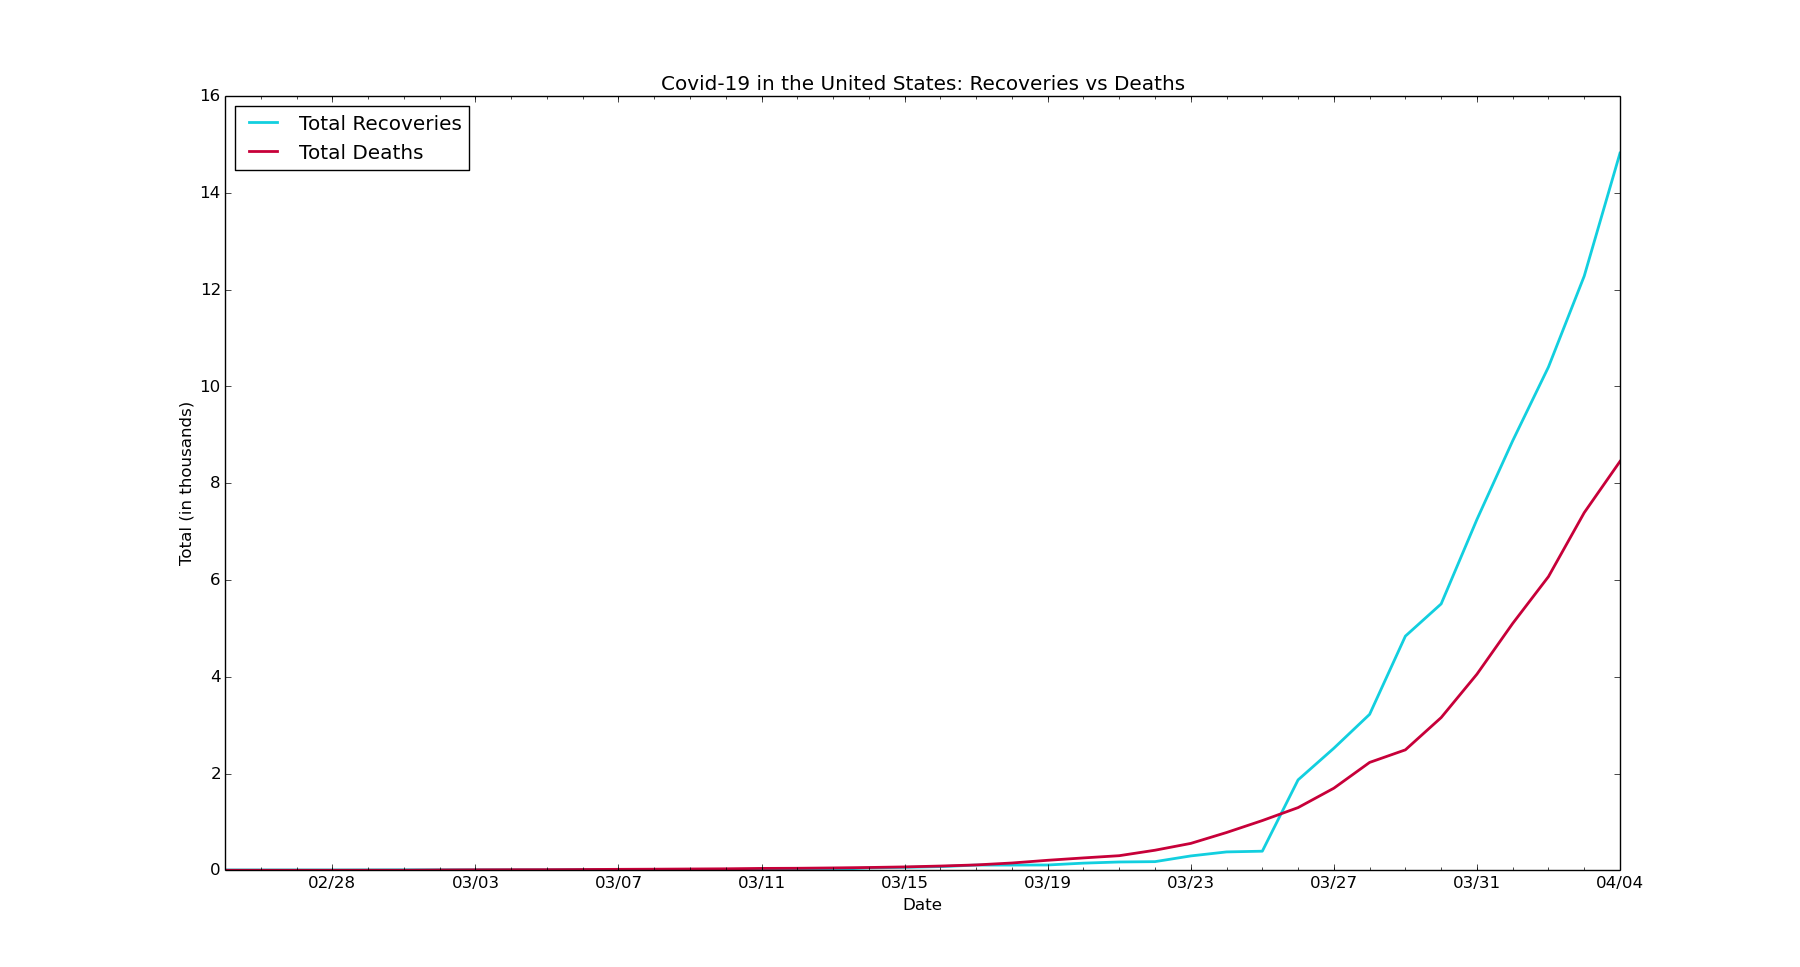
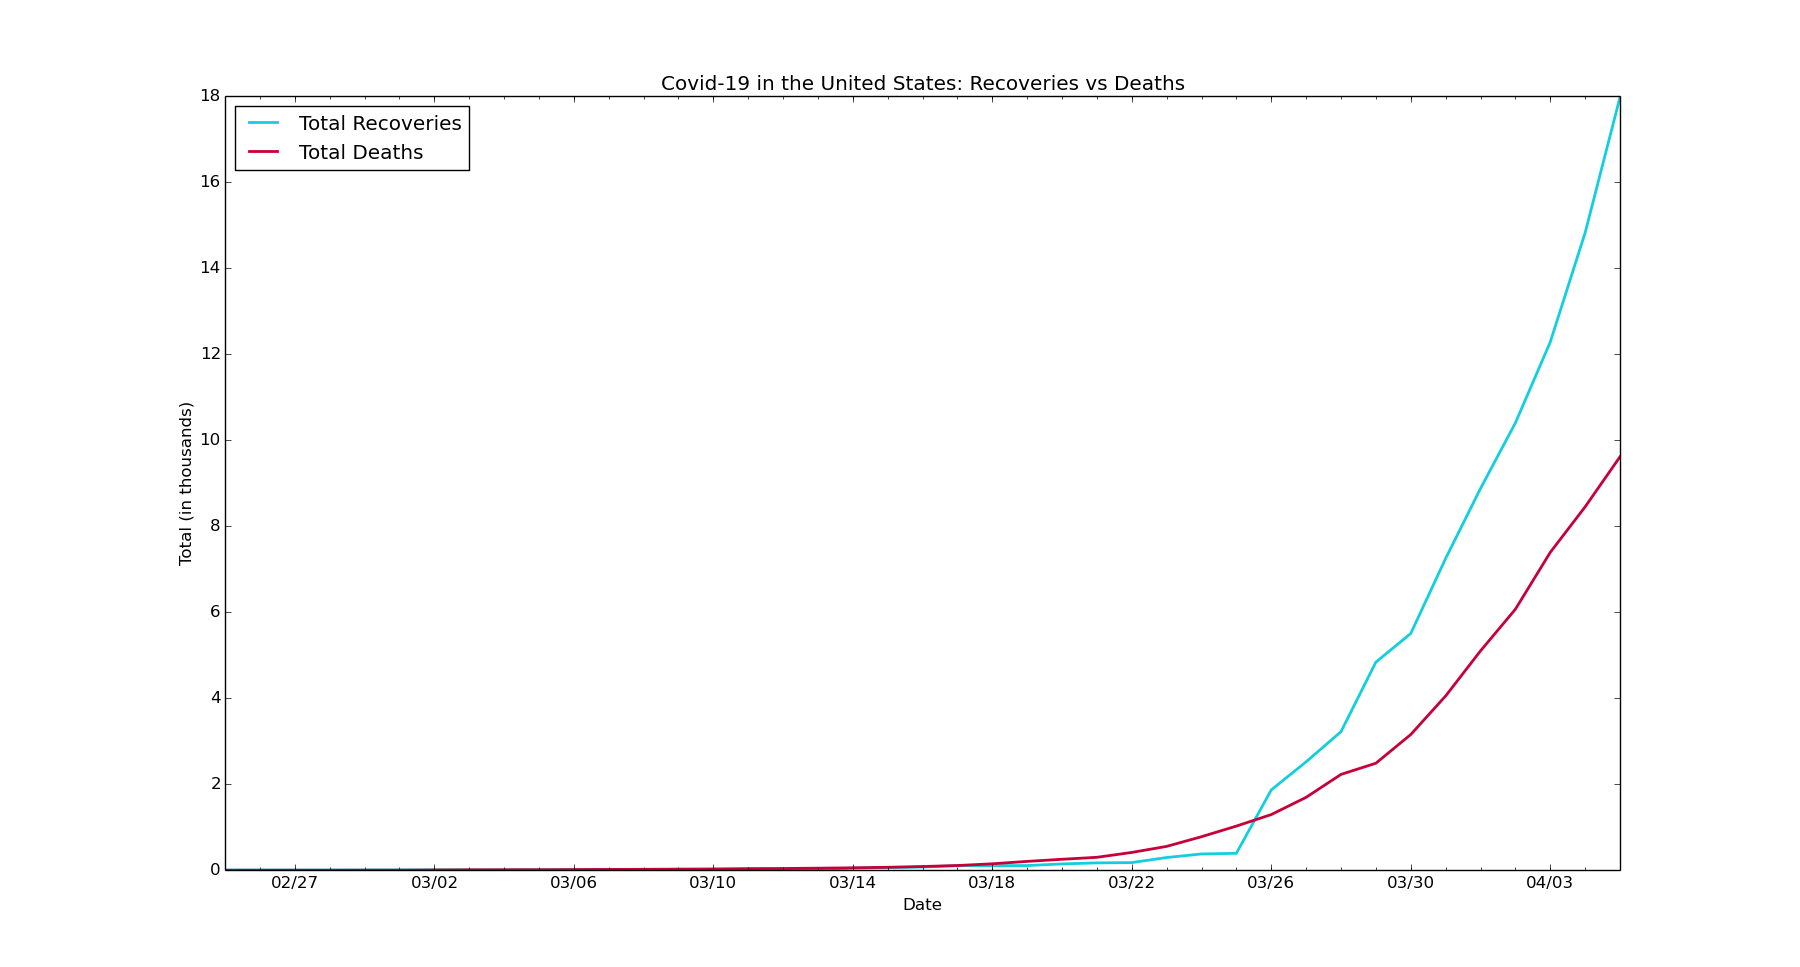
chore: Update data for USA

diff --git a/usa/us-new.py b/usa/us-new.py
@@ -6,7 +6,7 @@ import matplotlib.dates as mdates
 import matplotlib.ticker as ticker
 from matplotlib.dates import MO, TU, WE, TH, FR, SA, SU
 
-dates = ['1/21/2020', '1/22/2020', '1/23/2020', '1/24/2020', '1/25/2020', '1/26/2020', '1/27/2020', '1/28/2020', '1/29/2020', '1/30/2020', '1/31/2020', '2/1/2020', '2/2/2020', '2/3/2020', '2/4/2020', '2/5/2020', '2/6/2020', '2/7/2020', '2/8/2020', '2/9/2020', '2/10/2020', '2/11/2020', '2/12/2020', '2/13/2020', '2/14/2020', '2/15/2020', '2/16/2020', '2/17/2020', '2/18/2020', '2/19/2020', '2/20/2020', '2/21/2020', '2/22/2020', '2/23/2020', '2/24/2020', '2/25/2020', '2/26/2020', '2/27/2020', '2/28/2020', '2/29/2020', '3/1/2020', '3/2/2020', '3/3/2020', '3/4/2020', '3/5/2020', '3/6/2020', '3/7/2020', '3/8/2020', '3/9/2020', '3/10/2020', '3/11/2020', '3/12/2020', '3/13/2020', '3/14/2020', '3/15/2020', '3/16/2020', '3/17/2020', '3/18/2020', '3/19/2020', '3/20/2020', '3/21/2020', '3/22/2020', '3/23/2020', '3/24/2020', '3/25/2020', '3/26/2020', '3/27/2020', '3/28/2020', '3/29/2020', '3/30/2020', '3/31/2020', '4/1/2020', '4/2/2020', '4/3/2020', '4/4/2020']
+dates = ['1/21/2020', '1/22/2020', '1/23/2020', '1/24/2020', '1/25/2020', '1/26/2020', '1/27/2020', '1/28/2020', '1/29/2020', '1/30/2020', '1/31/2020', '2/1/2020', '2/2/2020', '2/3/2020', '2/4/2020', '2/5/2020', '2/6/2020', '2/7/2020', '2/8/2020', '2/9/2020', '2/10/2020', '2/11/2020', '2/12/2020', '2/13/2020', '2/14/2020', '2/15/2020', '2/16/2020', '2/17/2020', '2/18/2020', '2/19/2020', '2/20/2020', '2/21/2020', '2/22/2020', '2/23/2020', '2/24/2020', '2/25/2020', '2/26/2020', '2/27/2020', '2/28/2020', '2/29/2020', '3/1/2020', '3/2/2020', '3/3/2020', '3/4/2020', '3/5/2020', '3/6/2020', '3/7/2020', '3/8/2020', '3/9/2020', '3/10/2020', '3/11/2020', '3/12/2020', '3/13/2020', '3/14/2020', '3/15/2020', '3/16/2020', '3/17/2020', '3/18/2020', '3/19/2020', '3/20/2020', '3/21/2020', '3/22/2020', '3/23/2020', '3/24/2020', '3/25/2020', '3/26/2020', '3/27/2020', '3/28/2020', '3/29/2020', '3/30/2020', '3/31/2020', '4/1/2020', '4/2/2020', '4/3/2020', '4/4/2020', '4/5/2020']
 
 # format dates
 x_values = [datetime.datetime.strptime(d, "%m/%d/%Y").date() for d in dates]
@@ -24,7 +24,7 @@ ax.xaxis.set_minor_locator(mdates.WeekdayLocator(byweekday=(MO, TU, WE, TH, FR, 
 ax.get_yaxis().set_major_formatter(ticker.FuncFormatter(lambda x, pos: format(int(x/1000))))
 
 # new cases by day
-new_cases = [1, 0, 0, 1, 1, 2, 0, 0, 0, 1, 1, 1, 3, 0, 0, 1, 0, 0, 0, 0, 0, 0, 0, 0, 0, 0, 0, 0, 0, 0, 2, 0, 0, 0, 0, 0, 3, 0, 3, 5, 7, 25, 24, 34, 63, 98, 116, 106, 163, 290, 307, 329, 553, 587, 843, 983, 1748, 2853, 4582, 5588, 4825, 9400, 10189, 11075, 13355, 17224, 18691, 19452, 19913, 20353, 24686, 26473, 29874, 32284, 34196]
+new_cases = [1, 0, 0, 1, 1, 2, 0, 0, 0, 1, 1, 1, 3, 0, 0, 1, 0, 0, 0, 0, 0, 0, 0, 0, 0, 0, 0, 0, 0, 0, 2, 0, 0, 0, 0, 0, 3, 0, 3, 5, 7, 25, 24, 34, 63, 98, 116, 106, 163, 290, 307, 329, 553, 587, 843, 983, 1748, 2853, 4582, 5588, 4825, 9400, 10189, 11075, 13355, 17224, 18691, 19452, 19913, 20353, 24686, 26473, 29874, 32284, 34196, 25316]
 
 # text labels
 plt.title('Covid-19 in the United States: New Confirmed Diagnoses')

diff --git a/usa/us-rvd.py b/usa/us-rvd.py
@@ -6,7 +6,7 @@ import matplotlib.dates as mdates
 import matplotlib.ticker as ticker
 from matplotlib.dates import MO, TU, WE, TH, FR, SA, SU
 
-dates = ['2/25/2020', '2/26/2020', '2/27/2020', '2/28/2020', '2/29/2020', '3/1/2020', '3/2/2020', '3/3/2020', '3/4/2020', '3/5/2020', '3/6/2020', '3/7/2020', '3/8/2020', '3/9/2020', '3/10/2020', '3/11/2020', '3/12/2020', '3/13/2020', '3/14/2020', '3/15/2020', '3/16/2020', '3/17/2020', '3/18/2020', '3/19/2020', '3/20/2020', '3/21/2020', '3/22/2020', '3/23/2020', '3/24/2020', '3/25/2020', '3/26/2020', '3/27/2020', '3/28/2020', '3/29/2020', '3/30/2020', '3/31/2020', '4/1/2020', '4/2/2020', '4/3/2020', '4/4/2020']
+dates = ['2/25/2020', '2/26/2020', '2/27/2020', '2/28/2020', '2/29/2020', '3/1/2020', '3/2/2020', '3/3/2020', '3/4/2020', '3/5/2020', '3/6/2020', '3/7/2020', '3/8/2020', '3/9/2020', '3/10/2020', '3/11/2020', '3/12/2020', '3/13/2020', '3/14/2020', '3/15/2020', '3/16/2020', '3/17/2020', '3/18/2020', '3/19/2020', '3/20/2020', '3/21/2020', '3/22/2020', '3/23/2020', '3/24/2020', '3/25/2020', '3/26/2020', '3/27/2020', '3/28/2020', '3/29/2020', '3/30/2020', '3/31/2020', '4/1/2020', '4/2/2020', '4/3/2020', '4/4/2020', '4/5/2020']
 
 # format dates
 x_values = [datetime.datetime.strptime(d, "%m/%d/%Y").date() for d in dates]
@@ -24,10 +24,10 @@ ax.xaxis.set_minor_locator(mdates.WeekdayLocator(byweekday=(MO, TU, WE, TH, FR, 
 ax.get_yaxis().set_major_formatter(ticker.FuncFormatter(lambda x, pos: format(int(x/1000), ',')))
 
 # recoveries by day
-recoveries = [6, 6, 6, 6, 7, 9, 9, 9, 9, 9, 15, 15, 15, 15, 15, 15, 15, 15, 49, 60, 75, 107, 107, 109, 147, 171, 178, 296, 379, 394, 1868, 2522, 3223, 4840, 5506, 7251, 8878, 10403, 12283, 14825]
+recoveries = [6, 6, 6, 6, 7, 9, 9, 9, 9, 9, 15, 15, 15, 15, 15, 15, 15, 15, 49, 60, 75, 107, 107, 109, 147, 171, 178, 296, 379, 394, 1868, 2522, 3223, 4840, 5506, 7251, 8878, 10403, 12283, 14825, 17977]
 
 # deaths by day
-deaths = [0, 0, 0, 0, 1, 1, 6, 9, 11, 12, 15, 19, 22, 26, 30, 38, 41, 48, 57, 69, 87, 110, 150, 206, 255, 301, 414, 555, 780, 1027, 1295, 1696, 2229, 2489, 3156, 4053, 5102, 6070, 7392, 8452]
+deaths = [0, 0, 0, 0, 1, 1, 6, 9, 11, 12, 15, 19, 22, 26, 30, 38, 41, 48, 57, 69, 87, 110, 150, 206, 255, 301, 414, 555, 780, 1027, 1295, 1696, 2229, 2489, 3156, 4053, 5102, 6070, 7392, 8452, 9616]
 
 # create the graph
 plt.plot(x_values, recoveries, color='#12cfdf', linewidth=2)
